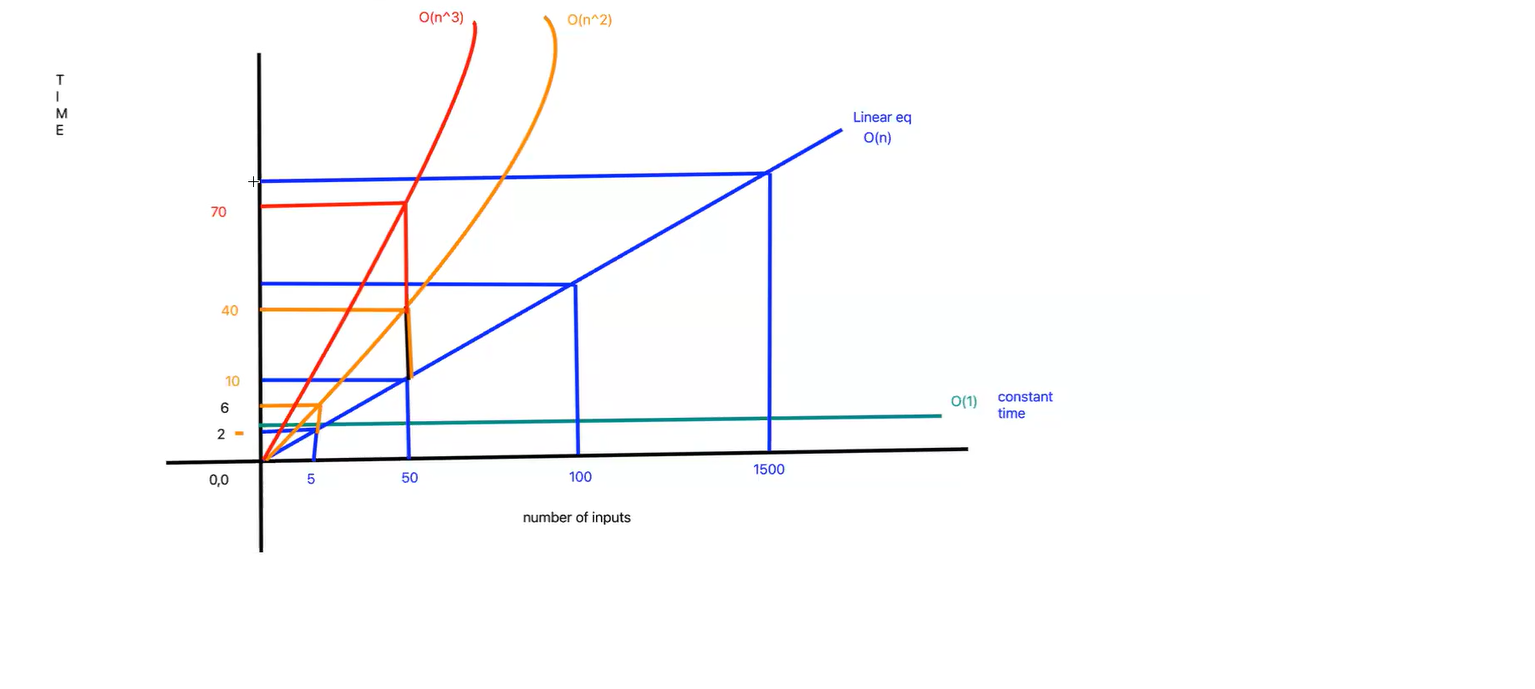
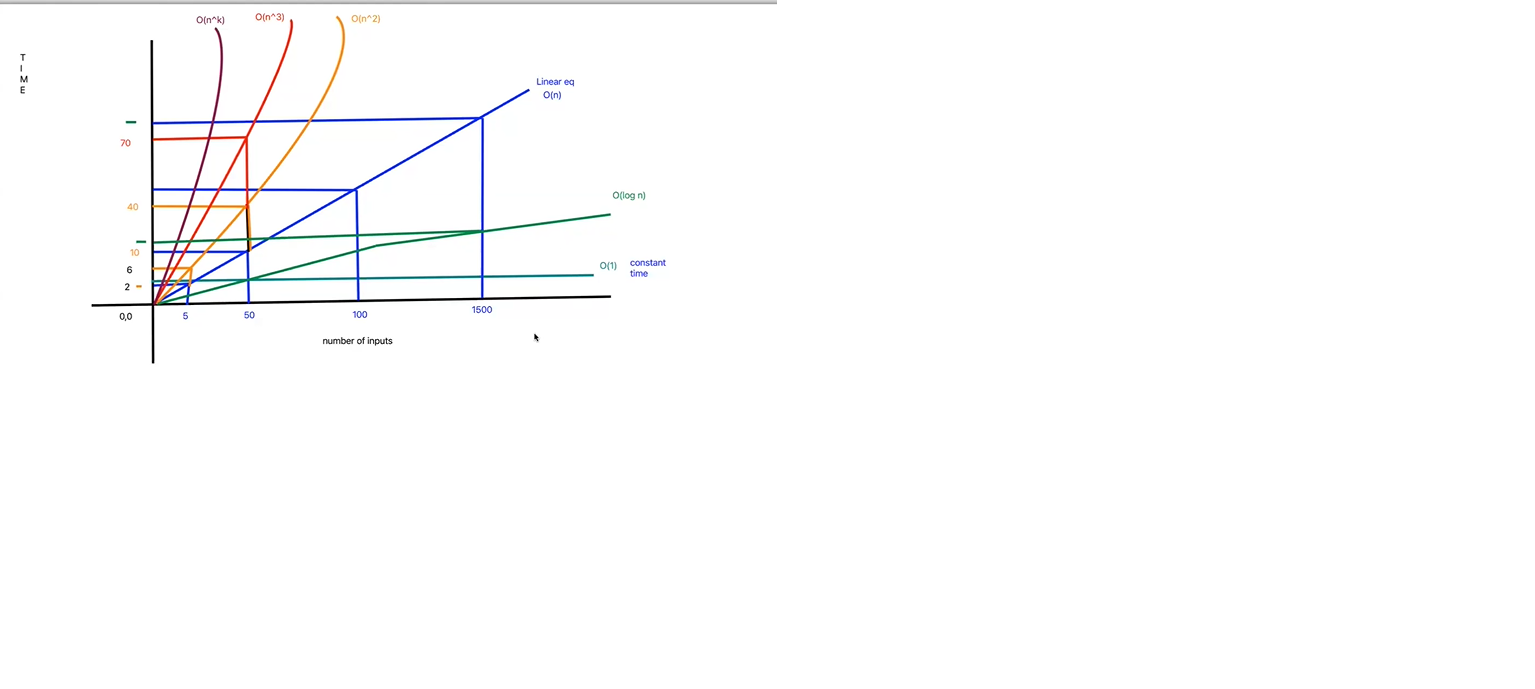
Binary search and Time complexity graph and explanation

diff --git a/JavaBasics/src/timecomplexity/BinarySearch.java b/JavaBasics/src/timecomplexity/BinarySearch.java
@@ -1,0 +1,64 @@
+package timecomplexity;
+
+import java.util.Arrays;
+
+public class BinarySearch {
+
+	public static void main(String[] args) {
+
+		int arr[] = {90,8,11,34,89,23,67,99,56};
+		
+		//find the index of 99
+		//what is time complexity fetch on specific index is O(1)
+		//Print the all the values of the array O(n)
+		//Time complexity of reading excel file O(n^2)
+		int target = 90;
+		
+		Arrays.sort(arr);
+		System.out.println(Arrays.toString(arr));
+		int index = binarySeach(arr, 90);
+		if(index!=-1) {
+			System.out.println("Element found at index: "+index);
+		}else {
+			System.out.println("Element not found");
+		}
+//		int start = 0;
+//		int end = arr.length-1;
+//		
+//		
+//		while(start<=end) {
+//			//find the middle index
+//			int mid = (start+end)/2;
+//			//Target found
+//			if(arr[mid] == target) {
+//				System.out.println("Element found at index: "+mid);
+//				return;
+//			}else if(target>arr[mid]) {
+//				start = mid + 1;
+//			}else {
+//				end = mid - 1;
+//			}
+//		}
+//		System.out.println("Element not found");
+		
+	}
+	
+	public static int binarySeach(int [] arr,int target) {
+		int start =0;
+		int end = arr.length-1;
+		
+		while(start<=end) {
+		int mid = (start+end)/2;
+		if(arr[mid]==target) {
+			//System.out.println("Element found at index : "+ mid);
+			return mid;
+		}else if(target>arr[mid]) {
+			start = mid+1;
+		}else {
+			end = mid- 1;
+		}
+		}
+		return -1;
+	}
+
+}